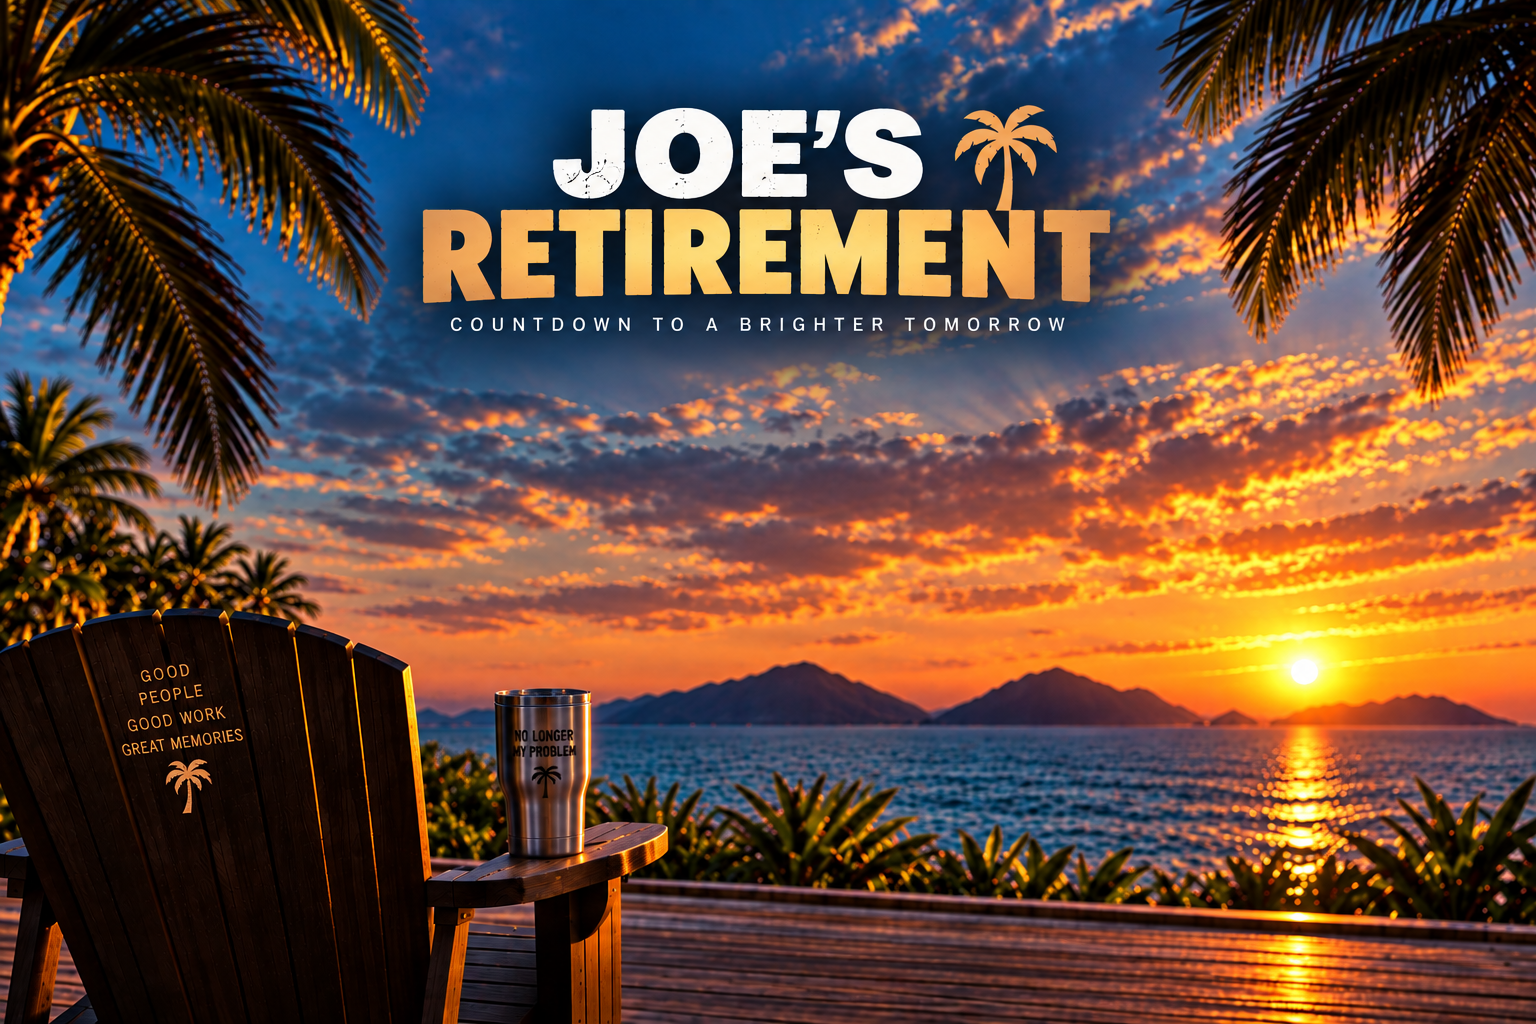
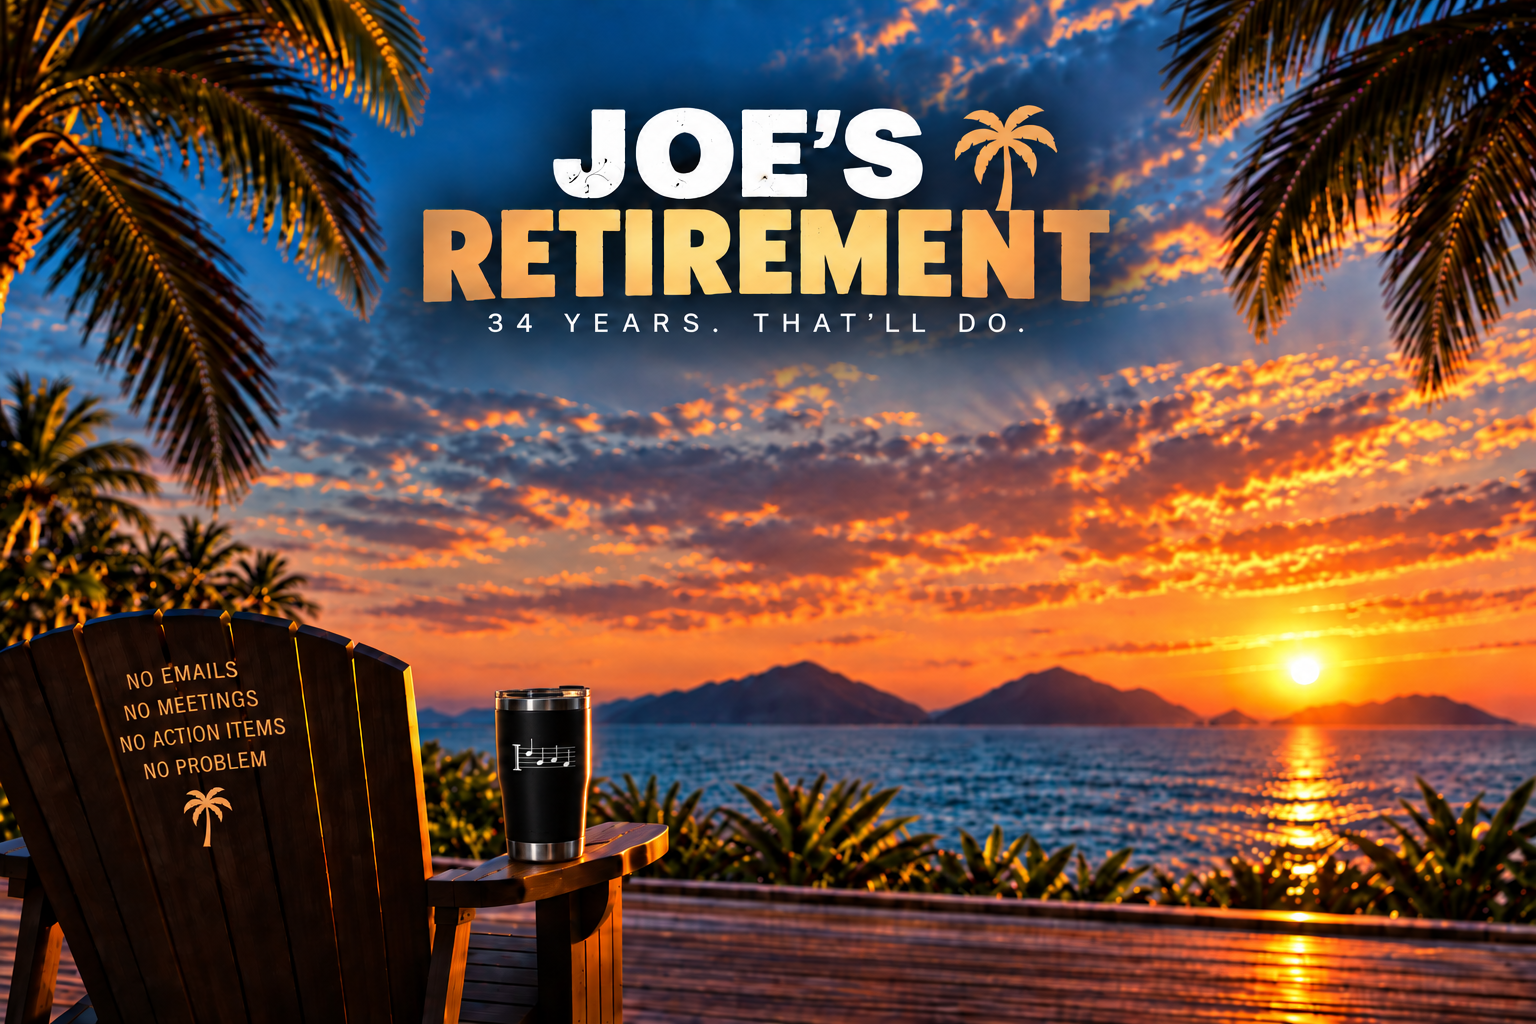
Add files via upload

diff --git a/index.html b/index.html
@@ -11,13 +11,8 @@
 body::before{content:"";position:fixed;inset:-3vmax;background:url("retirement-background.png") center/cover no-repeat;filter:blur(20px) brightness(.42);transform:scale(1.08);z-index:-2}body::after{content:"";position:fixed;inset:0;background:rgba(1,8,15,.25);z-index:-1}
 .stage{position:absolute;left:50%;top:50%;transform:translate(-50%,-50%);width:min(100vw,150vh);aspect-ratio:3/2;overflow:hidden;background:url("retirement-background.png") center/100% 100% no-repeat;box-shadow:0 0 70px rgba(0,0,0,.45);container-type:size}
 .stage::after{content:"";position:absolute;inset:0;pointer-events:none;background:linear-gradient(180deg,rgba(0,15,30,.03),rgba(0,0,0,.08));z-index:1}
-/* Replace only the baked wording while preserving the original artwork. */
-.bg-subtitle{position:absolute;z-index:3;left:27.4%;top:30.5%;width:45.2%;height:4.1%;display:flex;align-items:center;justify-content:center;background:linear-gradient(90deg,rgba(6,35,61,.02),rgba(9,43,70,.88) 9%,rgba(8,40,67,.94) 50%,rgba(9,43,70,.88) 91%,rgba(6,35,61,.02));font-size:1.65cqw;font-weight:800;letter-spacing:.19em;text-transform:uppercase;text-shadow:0 2px 8px rgba(0,0,0,.4)}
-.chair-patch{position:absolute;z-index:3;left:7.0%;top:64.0%;width:13.8%;height:13.2%;transform:rotate(-4deg);display:flex;align-items:center;justify-content:center;text-align:center;background:rgba(31,17,11,.87);border-radius:2%;box-shadow:inset 0 0 16px rgba(0,0,0,.25);color:#f4a84e;font-family:Georgia,"Times New Roman",serif;font-size:1.05cqw;line-height:1.48;letter-spacing:.08em;text-transform:uppercase}
-.tumbler-patch{position:absolute;z-index:3;left:33.55%;top:71.0%;width:4.35%;height:10.5%;border-radius:10% 10% 16% 16%;background:linear-gradient(90deg,rgba(45,47,47,.93),rgba(190,190,186,.95) 36%,rgba(225,224,217,.96) 53%,rgba(112,112,110,.95) 76%,rgba(42,43,43,.94));display:flex;align-items:center;justify-content:center;box-shadow:inset 0 0 5px rgba(0,0,0,.4)}
-.tumbler-patch svg{width:82%;height:60%;filter:drop-shadow(0 1px 1px rgba(255,255,255,.18))}
 .ui{position:absolute;inset:0;z-index:4;text-align:center;pointer-events:none}.stage-banner{position:absolute;left:50%;top:34.4%;transform:translateX(-50%);width:72%;font-size:.92cqw;font-weight:900;letter-spacing:.18em;text-transform:uppercase;color:transparent;text-shadow:0 2px 8px rgba(0,0,0,.35);transition:.25s}.stage.stage-30 .stage-banner,.stage.stage-10 .stage-banner,.stage.stage-5 .stage-banner,.stage.stage-final .stage-banner{color:rgba(255,245,220,.95)}
-.dynamic-title{display:none;position:absolute;left:50%;top:7.5%;transform:translateX(-50%);width:80%;font-size:4.1cqw;font-weight:950;letter-spacing:.05em;text-shadow:0 3px 14px rgba(0,0,0,.45)}.stage.stage-final .dynamic-title{display:block}.stage.stage-final .bg-subtitle{opacity:.12}
+.dynamic-title{display:none;position:absolute;left:50%;top:33.0%;transform:translateX(-50%);width:80%;font-size:4.1cqw;font-weight:950;letter-spacing:.05em;text-shadow:0 3px 14px rgba(0,0,0,.45)}.stage.stage-final .dynamic-title{display:block}
 .countdown{position:absolute;left:50%;top:36%;transform:translateX(-50%);width:52%;display:flex;justify-content:center;gap:1.05%;}.unit{width:23%;height:11.2cqh;min-height:0;border-radius:1.15cqw;background:linear-gradient(180deg,rgba(9,19,31,.68),rgba(29,22,28,.68));border:1px solid rgba(255,255,255,.22);box-shadow:0 8px 24px rgba(0,0,0,.2),inset 0 1px rgba(255,255,255,.06);backdrop-filter:blur(4px);display:flex;flex-direction:column;align-items:center;justify-content:center}.num{font-size:4.35cqw;line-height:.88;font-weight:850;letter-spacing:-.04em;font-variant-numeric:tabular-nums}.label{margin-top:1.05cqh;font-size:.78cqw;font-weight:800;letter-spacing:.14em}.stage.stage-final .unit{animation:pulse 2.3s ease-in-out infinite;border-color:rgba(255,205,110,.45)}
 .message-panel{position:absolute;left:50%;top:49.2%;transform:translateX(-50%);width:57%;min-height:9.7%;padding:1.15cqh 1.5cqw 1.1cqh;border-radius:1.15cqw;background:rgba(8,17,28,.62);border:1px solid rgba(255,255,255,.18);box-shadow:0 8px 25px rgba(0,0,0,.16);backdrop-filter:blur(5px)}.message-label{font-size:.76cqw;font-weight:800;letter-spacing:.23em;text-transform:uppercase;color:rgba(255,255,255,.83);margin-bottom:.8cqh}.message{font-size:1.43cqw;line-height:1.15;transition:opacity .38s,transform .38s}.message.changing{opacity:0;transform:translateY(.7cqh)}
 .date{position:absolute;top:60.2%;left:50%;transform:translateX(-50%);font-size:1.32cqw;font-style:italic;text-shadow:0 2px 8px rgba(0,0,0,.35)}
@@ -31,22 +26,6 @@ body::before{content:"";position:fixed;inset:-3vmax;background:url("retirement-b
 </head>
 <body>
 <main id="stage" class="stage" role="main" aria-label="Joe's retirement countdown">
-  <div class="bg-subtitle">34 YEARS. THAT’LL DO.</div>
-  <div class="chair-patch">NO EMAILS<br>NO MEETINGS<br>NO ACTION ITEMS<br>NO PROBLEM</div>
-  <div class="tumbler-patch" aria-label="Musical notes D G A F">
-    <svg viewBox="0 0 120 82" aria-hidden="true">
-      <g stroke="#111" stroke-width="2" fill="none" opacity=".95">
-        <line x1="8" y1="20" x2="112" y2="20"/><line x1="8" y1="30" x2="112" y2="30"/><line x1="8" y1="40" x2="112" y2="40"/><line x1="8" y1="50" x2="112" y2="50"/><line x1="8" y1="60" x2="112" y2="60"/>
-      </g>
-      <!-- D4, G4, A4, F4 in that order; no letters are displayed -->
-      <g fill="#111" stroke="#111" stroke-width="2">
-        <ellipse cx="22" cy="66" rx="7" ry="5" transform="rotate(-18 22 66)"/><line x1="28" y1="64" x2="28" y2="25"/>
-        <ellipse cx="47" cy="50" rx="7" ry="5" transform="rotate(-18 47 50)"/><line x1="53" y1="48" x2="53" y2="16"/>
-        <ellipse cx="73" cy="45" rx="7" ry="5" transform="rotate(-18 73 45)"/><line x1="79" y1="43" x2="79" y2="12"/>
-        <ellipse cx="98" cy="55" rx="7" ry="5" transform="rotate(-18 98 55)"/><line x1="104" y1="53" x2="104" y2="20"/>
-      </g>
-    </svg>
-  </div>
 
   <section class="ui">
     <div id="dynamic-title" class="dynamic-title">FINAL BUSINESS DAY</div>
@@ -94,7 +73,7 @@ body::before{content:"";position:fixed;inset:-3vmax;background:url("retirement-b
   'Until “please advise” becomes someone else’s responsibility.',
   'Until every “one quick question” becomes someone else’s problem.',
   'Until emails to my inbox become undeliverable.',
-  'Until your lack of planning is no longer my emergency.',
+  'Until everyone else’s lack of planning is no longer my emergency.',
   'Until my Slack profile says “Deactivated account.”',
   'Until “I’m not able to access…” sends someone else down the troubleshooting rabbit hole.'
  ];
@@ -105,7 +84,7 @@ body::before{content:"";position:fixed;inset:-3vmax;background:url("retirement-b
  let pool=standard,index=0;
  function stageFor(days){stage.classList.remove('stage-30','stage-10','stage-5','stage-final');banner.textContent='';if(days<=1){stage.classList.add('stage-final');banner.textContent='ALL SALES FINAL • NO RETURNS • NO NEW ACTION ITEMS';pool=m1}else if(days<=5){stage.classList.add('stage-5');banner.textContent='SUCCESSION PLANNING WINDOW: RAPIDLY CLOSING';pool=m5}else if(days<=10){stage.classList.add('stage-10');banner.textContent='PLEASE BEGIN MAKING OTHER ARRANGEMENTS';pool=m10}else if(days<=30){stage.classList.add('stage-30');banner.textContent='KNOWLEDGE TRANSFER WINDOW IS NOW CLOSING';pool=m30}else pool=standard;if(index>=pool.length)index=0}
  function mark(days){milestones.forEach(e=>{e.classList.remove('active','passed');if(days<=+e.dataset.threshold)e.classList.add('passed')});let t=null;if(days<=0)t=0;else if(days<=1)t=1;else if(days<=5)t=5;else if(days<=10)t=10;else if(days<=30)t=30;if(t!==null){const e=milestones.find(x=>+x.dataset.threshold===t);if(e)e.classList.add('active')}}
- function finish(){document.getElementById('countdown').style.display='none';document.getElementById('message-panel').style.display='none';document.getElementById('date').style.display='none';document.getElementById('milestones').style.display='none';document.getElementById('tagline').style.display='none';banner.style.display='none';document.querySelector('.bg-subtitle').style.display='none';document.getElementById('dynamic-title').style.display='none';document.getElementById('finished').style.display='block'}
+ function finish(){document.getElementById('countdown').style.display='none';document.getElementById('message-panel').style.display='none';document.getElementById('date').style.display='none';document.getElementById('milestones').style.display='none';document.getElementById('tagline').style.display='none';banner.style.display='none';document.getElementById('dynamic-title').style.display='none';document.getElementById('finished').style.display='block'}
  function update(){let diff=target-Date.now();if(diff<=0){mark(0);finish();return}const day=86400000;const daysR=diff/day;stageFor(daysR);mark(daysR);ids.d.textContent=String(Math.floor(diff/day)).padStart(2,'0');diff%=day;ids.h.textContent=String(Math.floor(diff/3600000)).padStart(2,'0');diff%=3600000;ids.m.textContent=String(Math.floor(diff/60000)).padStart(2,'0');diff%=60000;ids.s.textContent=String(Math.floor(diff/1000)).padStart(2,'0')}
  function rotate(){if(document.getElementById('finished').style.display==='block')return;msg.classList.add('changing');setTimeout(()=>{index=(index+1)%pool.length;msg.textContent=pool[index];msg.classList.remove('changing')},380)}
  update();setInterval(update,1000);setInterval(rotate,4800);
